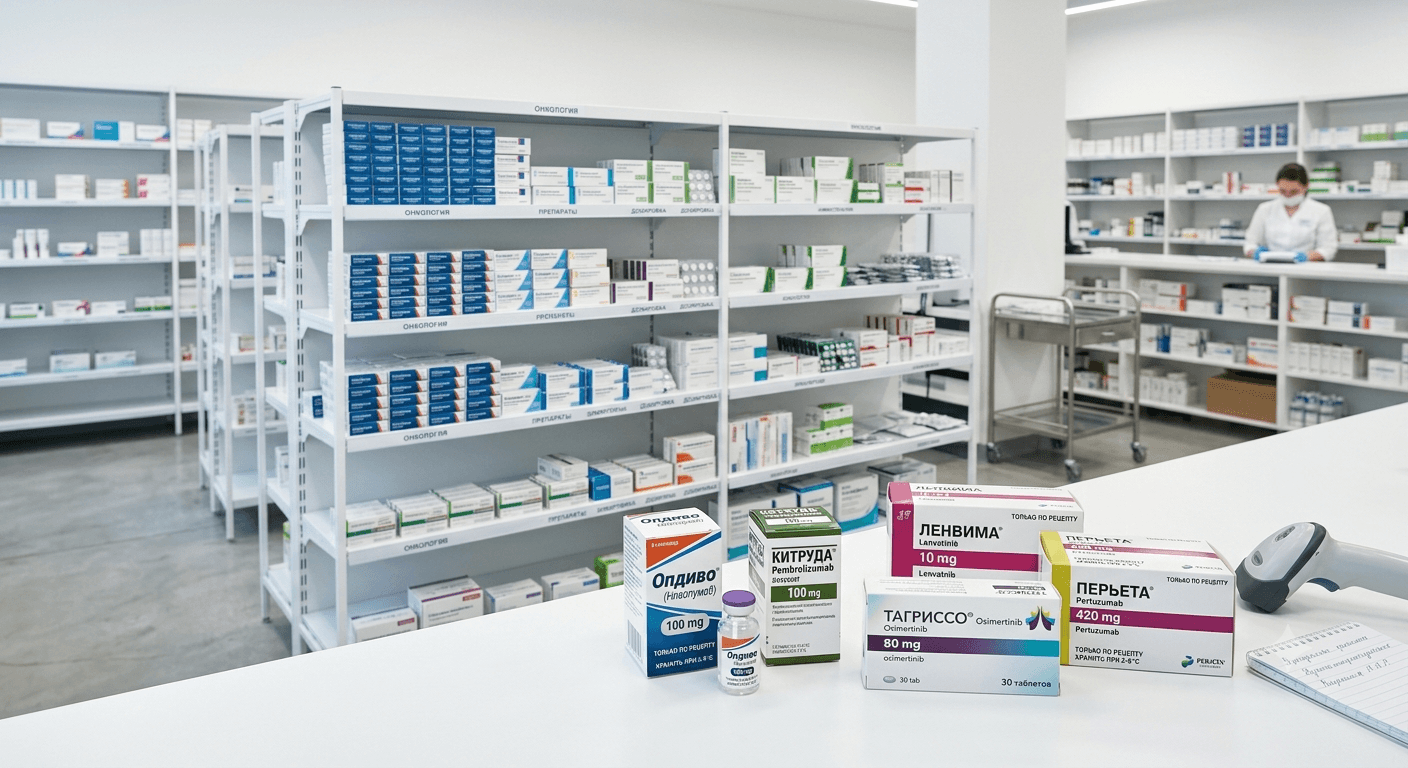
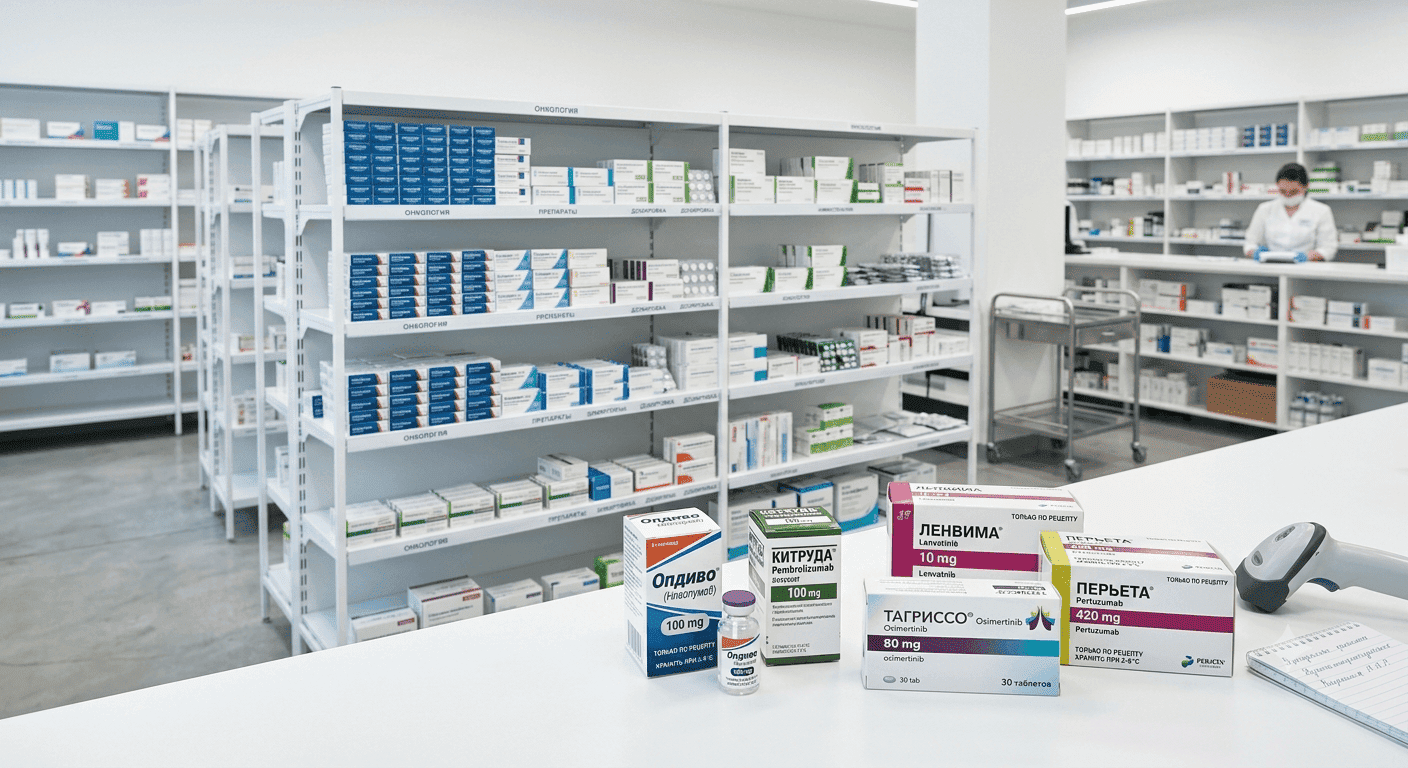
Perf: Css Minification

diff --git a/index.html b/index.html
@@ -10,6 +10,7 @@
       name="description"
       content="Выкупаем дорогостоящие лекарства у населения по всей России. Продать остатки препаратов после лечения. Быстрая оценка, оплата на месте, работаем по закону."
     />
+    <meta name="author" content="Фаёзбек" />
     <meta
       name="keywords"
       content="выкуп лекарств, продать лекарства, остатки лекарств, центр выкупа, дорогостоящие препараты, онкология, таргетная терапия"
@@ -63,6 +64,17 @@
       }
     </script>
 
+    <!-- ⚡ PRELOAD ИЗОБРАЖЕНИЙ -->
+    <link
+      rel="preload"
+      href="images/intro_image.png"
+      as="image"
+      fetchpriority="high"
+    />
+    <link rel="preload" href="images/apteka_image.png" as="image" />
+    <link rel="preload" href="images/sklad_image.png" as="image" />
+
+    <!-- ⚡ PRELOAD ШРИФТОВ -->
     <link
       rel="preload"
       href="fonts/Geist-Regular.woff2"
@@ -77,21 +89,8 @@
       type="font/woff2"
       crossorigin
     />
-    <link
-      rel="preload"
-      href="fonts/Geist-Medium.woff2"
-      as="font"
-      type="font/woff2"
-      crossorigin
-    />
-    <link
-      rel="preload"
-      href="fonts/Geist-SemiBold.woff2"
-      as="font"
-      type="font/woff2"
-      crossorigin
-    />
 
+    <!-- ⚡ КРИТИЧЕСКИЙ CSS -->
     <style>
       * {
         margin: 0;
@@ -165,6 +164,19 @@
         gap: 60px;
         align-items: center;
       }
+      img {
+        max-width: 100%;
+        height: auto;
+        aspect-ratio: attr(width) / attr(height);
+        background: #f0f4f8;
+      }
+      .intro-image-wrapper {
+        position: relative;
+        min-height: 450px;
+        background: #f0f4f8;
+        border-radius: 16px;
+        overflow: hidden;
+      }
       .stat-number {
         display: inline-block;
         min-width: 50px;
@@ -172,16 +184,9 @@
         text-align: center;
         will-change: contents;
       }
-      img {
-        max-width: 100%;
-        height: auto;
-        aspect-ratio: attr(width) / attr(height);
-      }
-      .intro-image img {
-        width: 100%;
-        height: auto;
-      }
     </style>
+
+    <!-- 📦 ОСНОВНОЙ CSS -->
     <link
       rel="stylesheet"
       href="css/style.css"
@@ -189,6 +194,8 @@
       onload="this.media = 'all'"
     />
     <noscript><link rel="stylesheet" href="css/style.css" /></noscript>
+
+    <!-- 📦 FONT AWESOME -->
     <link
       rel="stylesheet"
       href="https://cdnjs.cloudflare.com/ajax/libs/font-awesome/6.5.1/css/all.min.css"
@@ -200,6 +207,8 @@
         rel="stylesheet"
         href="https://cdnjs.cloudflare.com/ajax/libs/font-awesome/6.5.1/css/all.min.css"
     /></noscript>
+
+    <!-- 📦 LENIS -->
     <link
       rel="stylesheet"
       href="https://unpkg.com/lenis@1.1.18/dist/lenis.css"